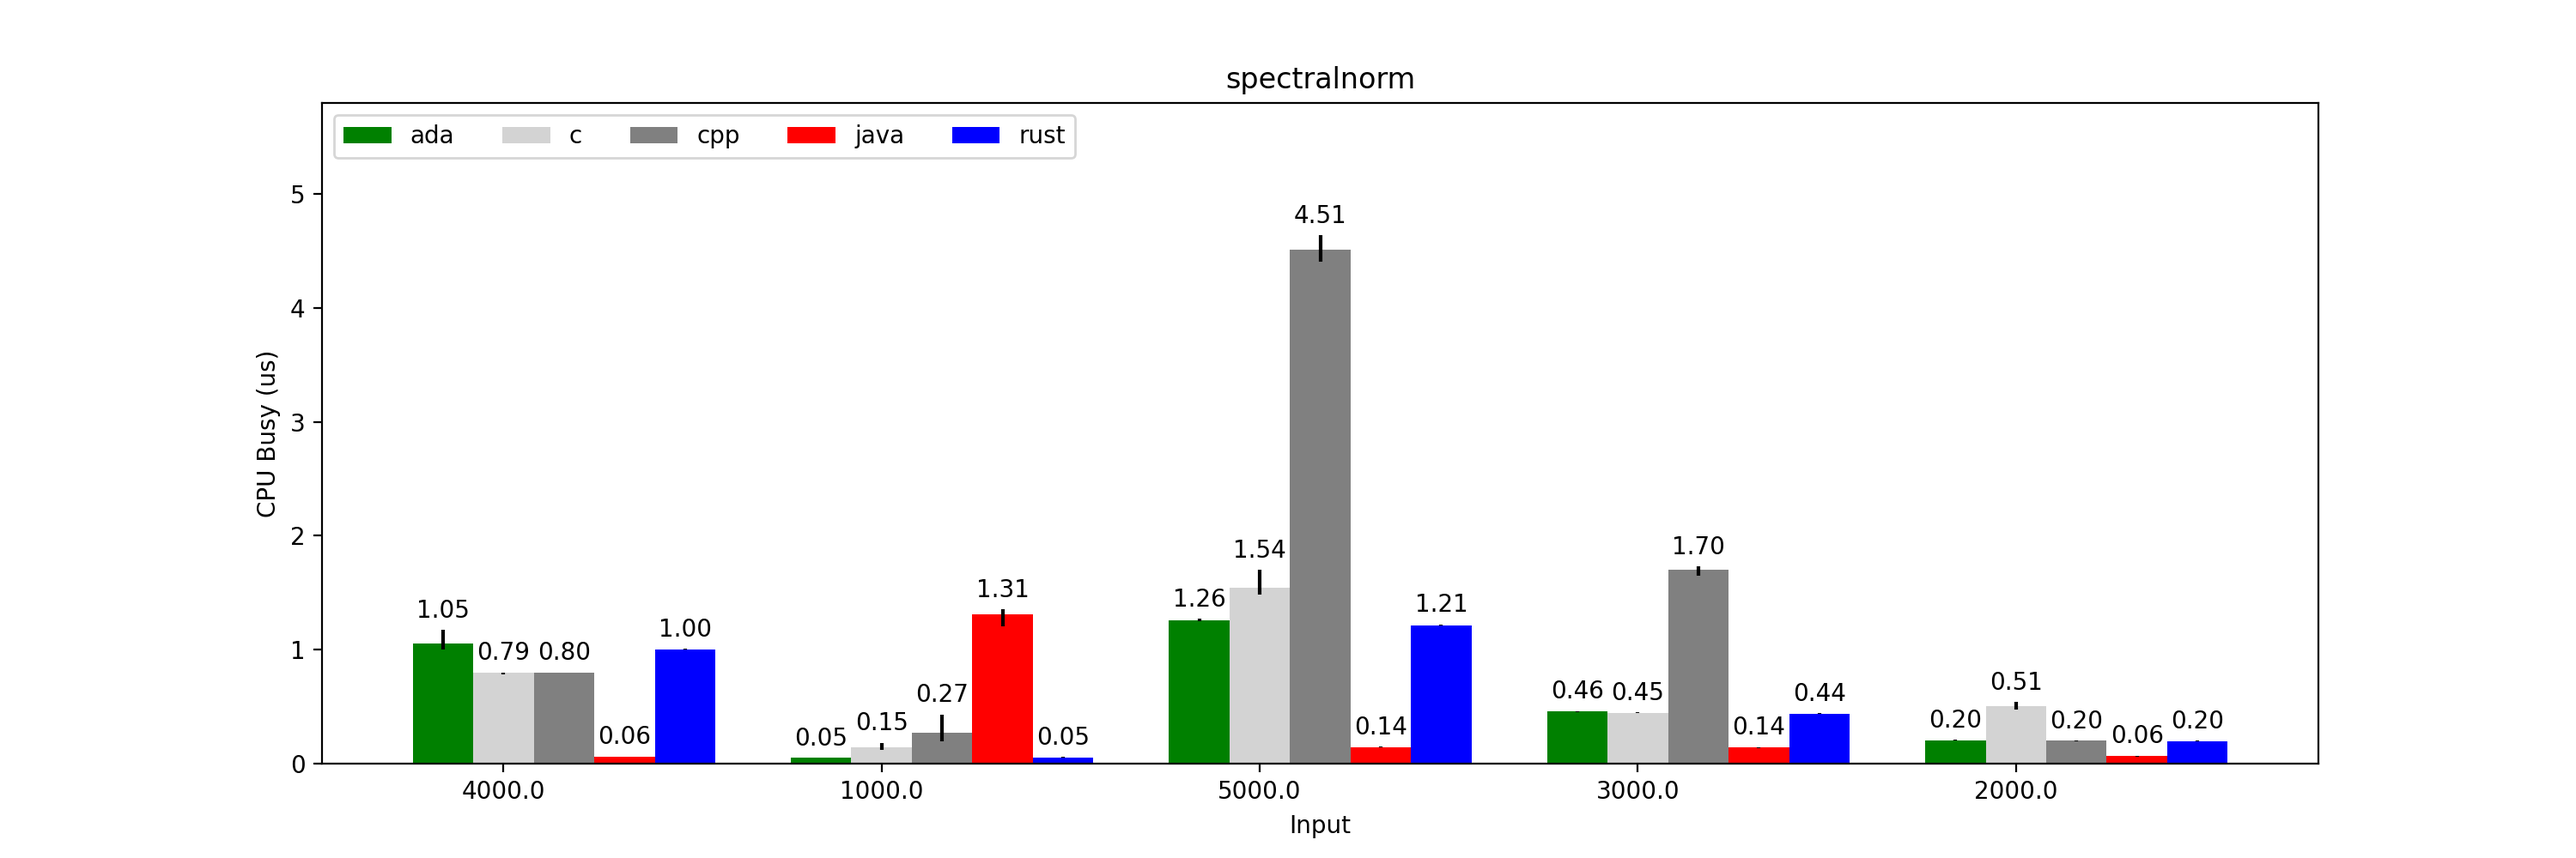
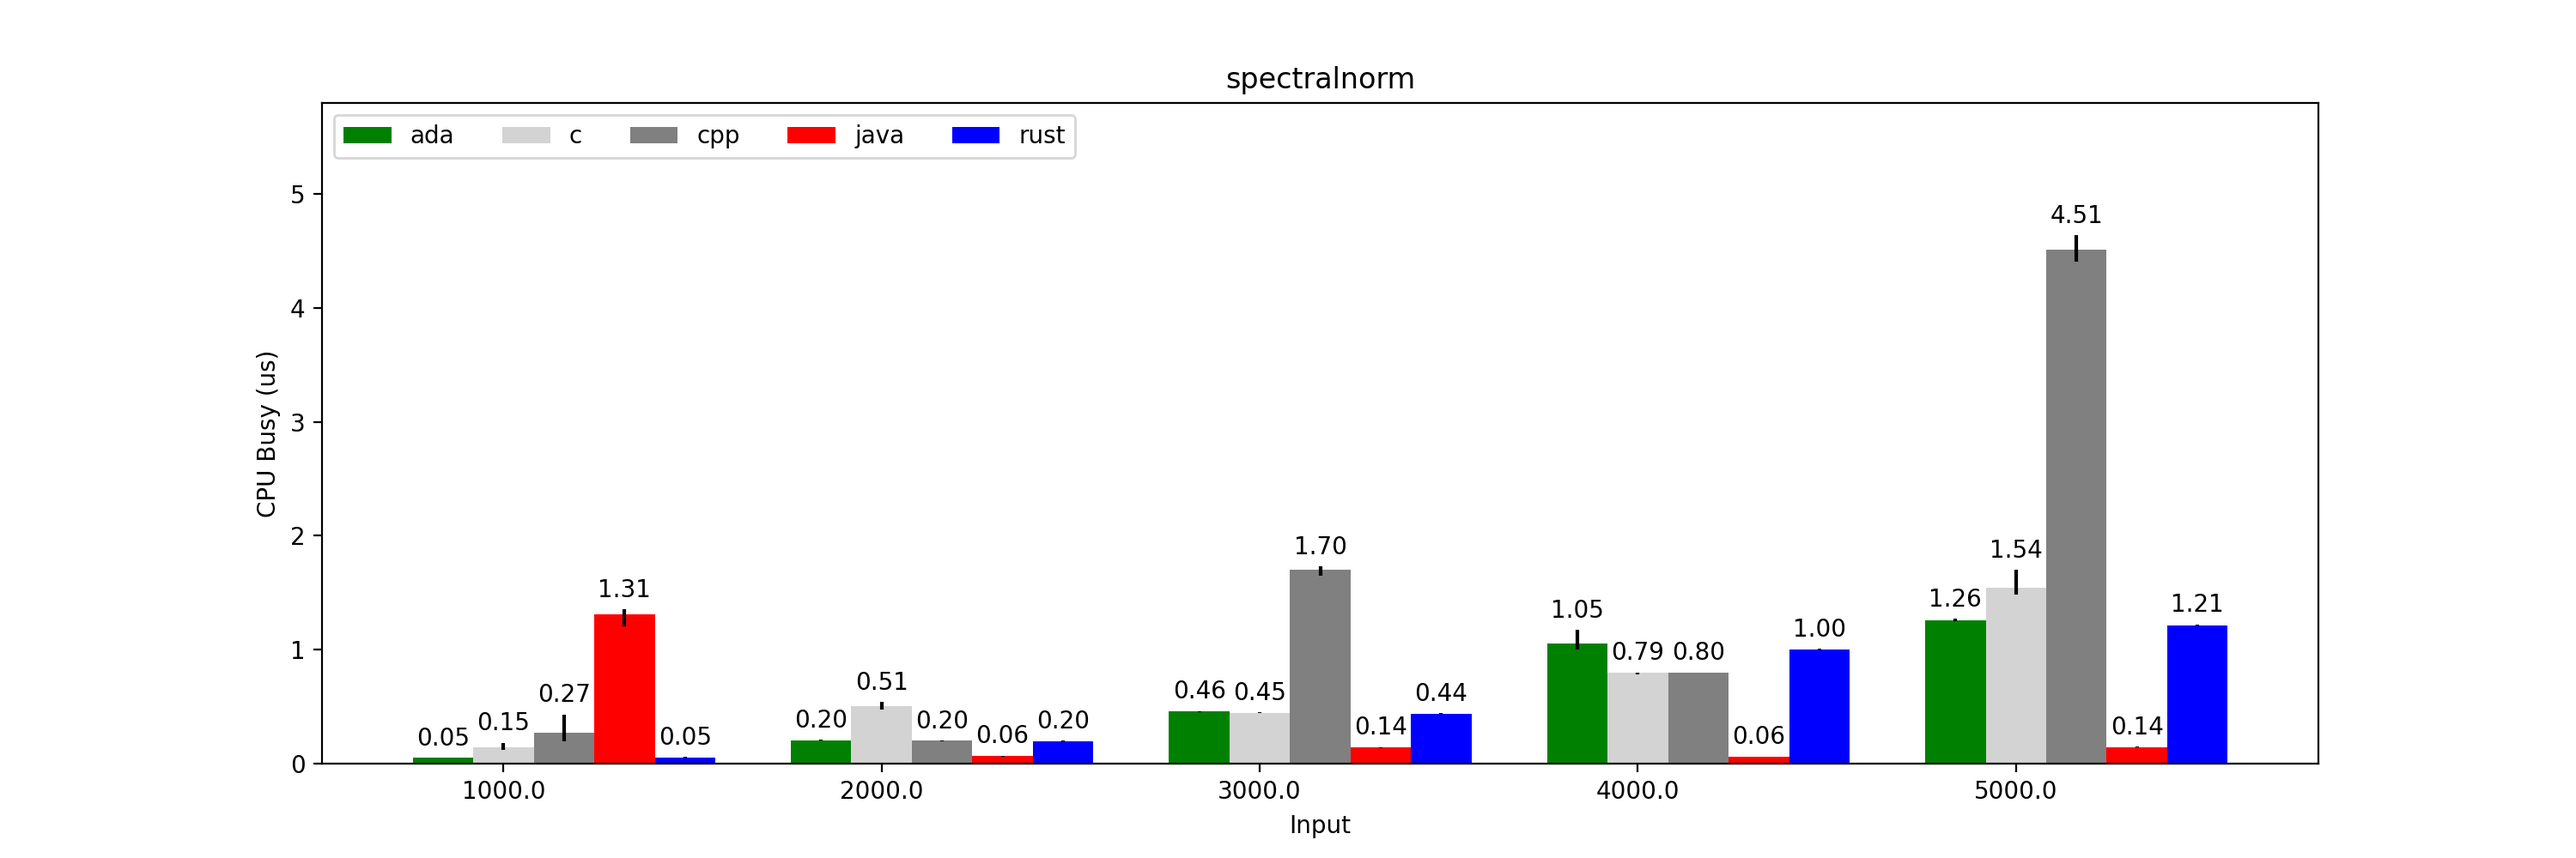
Sorted input groups

diff --git a/benchmarks/display.py b/benchmarks/display.py
@@ -41,13 +41,16 @@ def create_runtime_analysis(path: Path, data: dict, config: dict):
 
         analysis_path = path / f'{benchmark}.runtime.png'
 
+        input_data = list(input_data.items())
+        input_data.sort(key=lambda v: v[0])
+
         # get labels for benchmark groupings
-        inputs = tuple(str(k) for k in input_data.keys())
+        inputs = tuple(str(k[0]) for k in input_data)
 
         results = {}
         limit = 0.0
 
-        for _, language_data in input_data.items():
+        for _, language_data in input_data:
 
             for language, series in language_data.items():
                 if language not in results.keys():
@@ -132,13 +135,16 @@ def create_usage_analysis(path: Path, data: dict, config: dict):
 
         analysis_path = path / f'{benchmark}.cpu.png'
 
+        input_data = list(input_data.items())
+        input_data.sort(key=lambda v: v[0])
+
         # get labels for benchmark groupings
-        inputs = tuple(str(k) for k in input_data.keys())
+        inputs = tuple(str(k[0]) for k in input_data)
 
         results = {}
         limit = 0.0
 
-        for _, language_data in input_data.items():
+        for _, language_data in input_data:
 
             for language, series in language_data.items():
                 if language not in results.keys():
